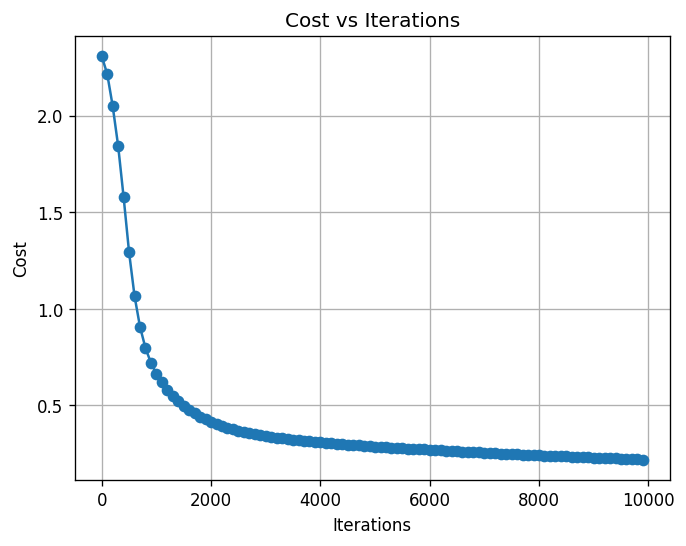
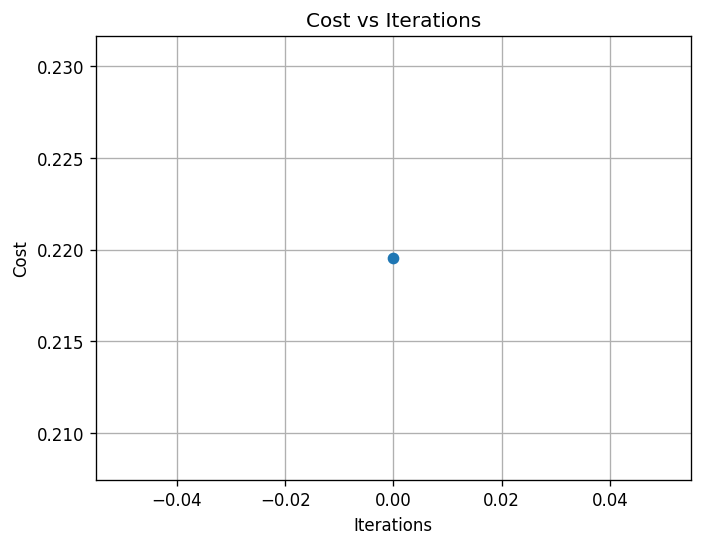
Recording code

diff --git a/AP_project/multi_class_nn.py b/AP_project/multi_class_nn.py
@@ -3,53 +3,41 @@ from tensorflow.keras.datasets import mnist
 import matplotlib.pyplot as plt
 import os
 import time
+import os
 
-(x_train, y_train) , (x_test , y_test) = mnist.load_data()
+# Load and preprocess data
+(x_train, y_train), (x_test, y_test) = mnist.load_data()
 x_train = x_train / 255.0
-x_train = x_train.reshape(x_train.shape[0],-1)
-#paths
-weights_and_biases = [
-    "models/W1.npy", "models/b1.npy",
-    "models/W2.npy", "models/b2.npy",
-    "models/W3.npy", "models/b3.npy"
-]
+x_train = x_train.reshape(x_train.shape[0], -1)
 
-#Define NN structure
-input_units = x_train.shape[1]
-hidden_units_1 = 25
-hidden_units_2 = 15
-output_units = 10
+# Define NN architecture
+input_units     = x_train.shape[1]
+hidden_units_1  = 25
+hidden_units_2  = 15
+output_units    = 10
 
 
-#helper functions
+# Helper functions
+def clear_terminal():
+    os.system('cls' if os.name == 'nt' else 'clear')
 def format_time(seconds):
     minutes = int(seconds // 60)
     remaining_seconds = int(seconds % 60)
     return f"{minutes}m {remaining_seconds}s"
 
 def one_hot_encode(y, num_classes=10):
-    '''
-    0 --> [1,0,0,0,0,0,0,0,0,0]
-    1 --> [0,1,0,0,0,0,0,0,0,0]
-    2 --> [0,0,1,0,0,0,0,0,0,0]
-    3 --> [0,0,0,1,0,0,0,0,0,0]
-    '''
-    y = np.array(y)  # Ensure y is a NumPy array
+    y = np.array(y)
     one_hot = np.zeros((len(y), num_classes))
     for i, value in enumerate(y):
         one_hot[i, value] = 1.0
     return one_hot
 
-# Load saved weights if available, otherwise initialize
 def load_or_initialize_weights():
     if all(os.path.exists(file) for file in weights_and_biases):
         print("Loaded saved weights and biases.")
-        W1 = np.load("models/W1.npy")
-        b1 = np.load("models/b1.npy")
-        W2 = np.load("models/W2.npy")
-        b2 = np.load("models/b2.npy")
-        W3 = np.load("models/W3.npy")
-        b3 = np.load("models/b3.npy")
+        W1 = np.load("models/W1.npy"); b1 = np.load("models/b1.npy")
+        W2 = np.load("models/W2.npy"); b2 = np.load("models/b2.npy")
+        W3 = np.load("models/W3.npy"); b3 = np.load("models/b3.npy")
     else:
         print("Initializing new weights and biases.")
         W1 = np.random.randn(input_units, hidden_units_1) * np.sqrt(1 / input_units)
@@ -67,56 +55,60 @@ def calculate_accuracy(X, y, W1, b1, W2, b2, W3, b3):
     accuracy = np.mean(predictions == true_labels) * 100
     return accuracy
 
-#Activation functions
-def relu(z):
-    return np.maximum(0,z)
-def relu_derivative(z):
+
+# Activation functions
+def relu(z): 
+    return np.maximum(0, z)
+def relu_derivative(z): 
     return (z > 0).astype(float)
 def softmax(z, temperature=1.5):
     z = z / temperature
     exp_z = np.exp(z - np.max(z, axis=1, keepdims=True))
     return exp_z / np.sum(exp_z, axis=1, keepdims=True)
 
-#Simulate a forward pass throught the NN
+
+# Forward pass
 def forward_pass(X, W1, b1, W2, b2, W3, b3):
-    z1 = np.dot(X,W1) + b1
+    z1 = np.dot(X, W1) + b1
     a1 = relu(z1)
-    z2 = np.dot(a1,W2) + b2
+    z2 = np.dot(a1, W2) + b2
     a2 = relu(z2)
-    z3 = np.dot(a2,W3) + b3
+    z3 = np.dot(a2, W3) + b3
     a3 = softmax(z3)
     return z1, a1, z2, a2, a3
 
-#Loss function
+
+# Cost function
 def compute_cost(y_true, y_pred):
     m = y_train.shape[0]
-    y_pred = np.clip(y_pred, 1e-10, 1 - 1e-10)  # Avoid log(0) errors
-    cost = -np.sum(y_true * np.log(y_pred)) / m 
+    y_pred = np.clip(y_pred, 1e-10, 1 - 1e-10)
+    cost = -np.sum(y_true * np.log(y_pred)) / m
     return cost
 
-#Calculating the gradients
+
+# Backpropagation
 def compute_gradients(X, y, W1, W2, W3, z1, z2, a1, a2, a3):
     m = X.shape[0]
-    #Gradient for the Output Layer
-    error3 = a3 - y                                        # Shape: (m, 10) y is hot encoded
-    dW3 = (1 / m) * np.dot(a2.T, error3)                   # Shape: (15, 10)
-    db3 = (1 / m) * np.sum(error3, axis=0, keepdims=True)  # Shape: (1, 10)
-    #Gradients for Hidden Layer 2
+    error3 = a3 - y
+    dW3 = (1 / m) * np.dot(a2.T, error3)
+    db3 = (1 / m) * np.sum(error3, axis=0, keepdims=True)
+
     error2 = np.dot(error3, W3.T) * relu_derivative(z2)
-    dW2 = (1 / m) * np.dot(a1.T, error2)                   # Shape: (25, 15)
-    db2 = (1 / m) * np.sum(error2, axis=0, keepdims=True)  # Shape: (1, 15)
-    #Gradients for Hidden Layer 1
-    error1 = np.dot(error2, W2.T) * relu_derivative(z1)    # Shape: (m, 25)
-    dW1 = (1 / m) * np.dot(X.T, error1)                    # Shape: (784, 25)
-    db1 = (1 / m) * np.sum(error1, axis=0, keepdims=True)  # Shape: (1, 25)
+    dW2 = (1 / m) * np.dot(a1.T, error2)
+    db2 = (1 / m) * np.sum(error2, axis=0, keepdims=True)
+
+    error1 = np.dot(error2, W2.T) * relu_derivative(z1)
+    dW1 = (1 / m) * np.dot(X.T, error1)
+    db1 = (1 / m) * np.sum(error1, axis=0, keepdims=True)
 
     return dW1, db1, dW2, db2, dW3, db3
 
+
+# Training loop
 def gradient_descent(X, y, W1, b1, W2, b2, W3, b3, learning_rate=0.01, epochs=1000):
     previous_cost = None
     start_time = time.time()
-    costs = []  # For plotting
-    iterations = []  # X-axis for plot
+    costs, iterations = [], []
 
     for i in range(epochs):
         z1, a1, z2, a2, a3 = forward_pass(X, W1, b1, W2, b2, W3, b3)
@@ -135,26 +127,17 @@ def gradient_descent(X, y, W1, b1, W2, b2, W3, b3, learning_rate=0.01, epochs=10
         b2 -= learning_rate * db2
         b3 -= learning_rate * db3
 
-        total_elapsed_time = time.time() - start_time
-        remaining_iters = epochs - (i + 1)
-        avg_time_per_iter = total_elapsed_time / (i + 1)
-        estimated_completion_time = remaining_iters * avg_time_per_iter
+        total_time = time.time() - start_time
+        avg_time_per_iter = total_time / (i + 1)
+        etc = (epochs - i - 1) * avg_time_per_iter
 
         if i % 10 == 0:
-            if previous_cost is not None:
-                delta_cost = previous_cost - cost
-                print(
-                    f"Iter <{i:5d}> : cost {cost:.7f} : Δcost {delta_cost: .7f} | "
-                    f"ETC: {format_time(estimated_completion_time):>8} | T: {format_time(total_elapsed_time):>8}"
-                )
-            else:
-                print(f"Iter <{i}> : cost {cost:.7f} : Δcost N/A | T: {format_time(total_elapsed_time):>8}")
-
+            delta = previous_cost - cost if previous_cost else 0
+            print(f"Iter <{i:5d}> : cost {cost:.7f} : Δcost {delta:.7f} | ETC: {format_time(etc):>8} | T: {format_time(total_time):>8}")
             previous_cost = cost
 
-    end_time = time.time()
-    training_time = end_time - start_time
-    print(f"Training completed in {training_time:.2f} seconds.")
+    training_time = time.time() - start_time
+    print(f"\nTraining completed in {training_time:.2f} seconds.")
 
     # Save weights
     os.makedirs("models", exist_ok=True)
@@ -166,7 +149,7 @@ def gradient_descent(X, y, W1, b1, W2, b2, W3, b3, learning_rate=0.01, epochs=10
     np.save("models/b3.npy", b3)
     print("Final weights and biases saved.")
 
-    # Plot cost vs. iterations
+    # Plot
     plt.plot(iterations, costs, marker='o')
     plt.xlabel("Iterations")
     plt.ylabel("Cost")
@@ -179,20 +162,18 @@ def gradient_descent(X, y, W1, b1, W2, b2, W3, b3, learning_rate=0.01, epochs=10
     return W1, b1, W2, b2, W3, b3, training_time
 
 
-
-#-------------------------------------------------------
-weights_and_biases = ["models/W1.npy", "models/b1.npy", "models/W2.npy", "models/b2.npy", "models/W3.npy", "models/b3.npy"]
-y_train_one_hot = one_hot_encode(y_train)  # One-hot encode y_train
-
-# PARAMS -------------
-mode = "t"              # "t" for train, "p" for predict
+# Main Execution
+# ---- Parameters ----
+mode = "t"    # t -> training p -> for prediction
 learning_rate = 0.01
-num_epochs = 10000
-#----------------------
+num_epochs    = 1000
+# ---------------------
 
+weights_and_biases = ["models/W1.npy", "models/b1.npy", "models/W2.npy", "models/b2.npy", "models/W3.npy", "models/b3.npy"]
 y_train_one_hot = one_hot_encode(y_train)
 
 if mode == "t":
+    clear_terminal()
     W1, b1, W2, b2, W3, b3 = load_or_initialize_weights()
 
     initial_cost = compute_cost(y_train_one_hot, forward_pass(x_train, W1, b1, W2, b2, W3, b3)[-1])
@@ -201,20 +182,17 @@ if mode == "t":
     )
     final_cost = compute_cost(y_train_one_hot, forward_pass(x_train, W1, b1, W2, b2, W3, b3)[-1])
 
-    print(f"Initial Cost: {initial_cost:.6f}")
-    print(f"Final Cost: {final_cost:.6f}")
+    print(f"\nInitial Cost:  {initial_cost:.6f}")
+    print(f"Final Cost:    {final_cost:.6f}")
     print(f"Training Time: {format_time(training_time)}")
 
     accuracy = calculate_accuracy(x_train, y_train_one_hot, W1, b1, W2, b2, W3, b3)
     print(f"Training Accuracy: {accuracy:.2f}%")
 
 elif mode == "p":
-    W1 = np.load("models/W1.npy")
-    b1 = np.load("models/b1.npy")
-    W2 = np.load("models/W2.npy")
-    b2 = np.load("models/b2.npy")
-    W3 = np.load("models/W3.npy")
-    b3 = np.load("models/b3.npy")
+    W1 = np.load("models/W1.npy"); b1 = np.load("models/b1.npy")
+    W2 = np.load("models/W2.npy"); b2 = np.load("models/b2.npy")
+    W3 = np.load("models/W3.npy"); b3 = np.load("models/b3.npy")
 
     print("Weights and biases loaded for prediction.")
     user_input = input("Enter the range of indices to predict (e.g. 0-9): ")
@@ -223,7 +201,6 @@ elif mode == "p":
     sample_images = x_test[start:end+1]
     sample_labels = y_test[start:end+1]
     _, _, _, _, predictions = forward_pass(sample_images.reshape(sample_images.shape[0], -1), W1, b1, W2, b2, W3, b3)
-
     predicted_labels = np.argmax(predictions, axis=1)
 
     for i in range(len(predicted_labels)):
@@ -234,7 +211,7 @@ elif mode == "p":
             tag = "<-- Predicted" if digit == predicted_labels[i] else ""
             print(f"  {digit}: {prob * 100:.2f}% {tag}")
 
-    # Optional: display images
+    # Optional: Show images
     fig, axes = plt.subplots(1, len(sample_images), figsize=(3 * len(sample_images), 3))
     for i in range(len(sample_images)):
         axes[i].imshow(sample_images[i], cmap='gray')
